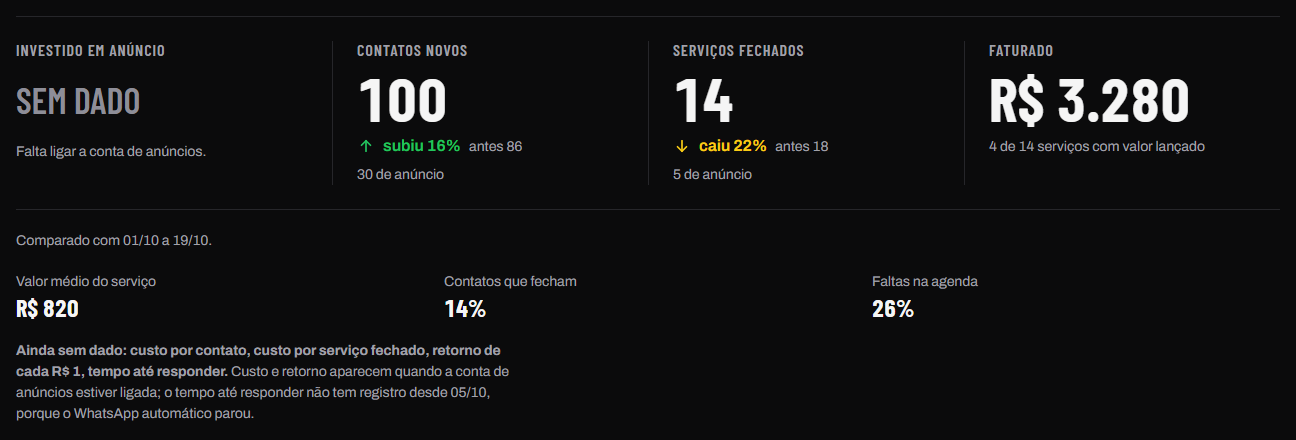
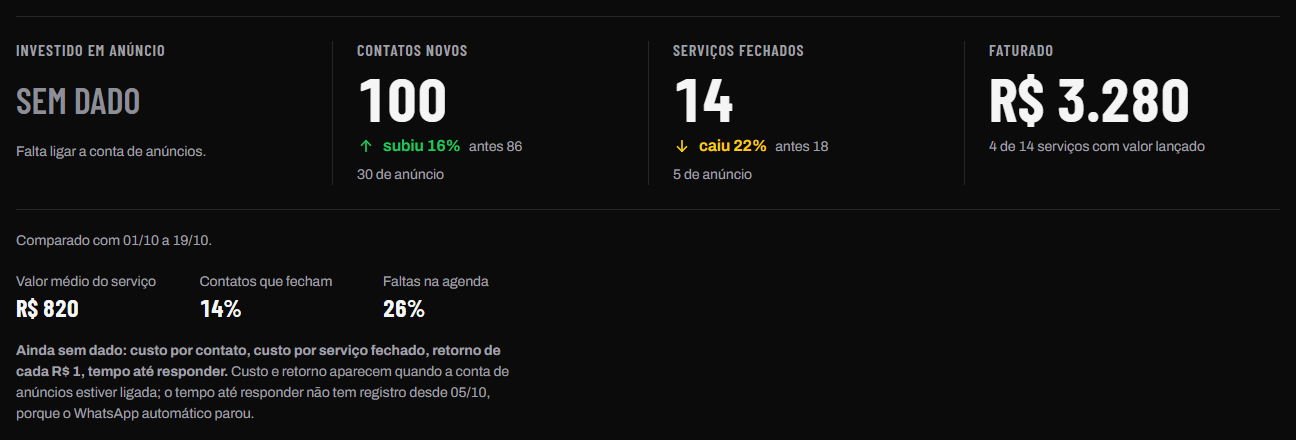
Tráfego r8 (T3): torre no computador e casos de 320 px no roteiro
- Cabeçalho da torre: coluna "Chegou" mais larga e títulos com o mesmo
  tamanho de letra (as classes das colunas aumentavam dois deles).
- Roteiro: Hoje, Jornada, mutirão e Ajustes em 320 px. Fotos do guia refeitas.

diff --git a/apps/trafego/tela/css/jornada.css b/apps/trafego/tela/css/jornada.css
@@ -768,7 +768,7 @@
   }
 
   .torre-jornada {
-    --torre-colunas: minmax(10rem, 1.2fr) minmax(9rem, 1.1fr) 9.5rem minmax(9.5rem, 0.9fr) 6.5rem 3.5rem;
+    --torre-colunas: minmax(10rem, 1.2fr) minmax(9rem, 1.1fr) 9.5rem minmax(9.5rem, 0.9fr) 6.5rem 4.5rem;
   }
   .torre-jornada .torre-cabeca {
     display: grid;
@@ -776,6 +776,8 @@
   /* Os títulos levam as classes das colunas (jl-origem, jl-chegou), mas não as áreas da ficha do celular. */
   .torre-jornada .torre-cabeca > * {
     grid-area: auto;
+    align-self: center;
+    font-size: inherit;
   }
   .torre-jornada .torre-linha {
     grid-template-columns: var(--torre-colunas);
